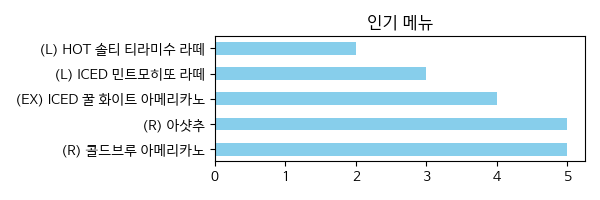
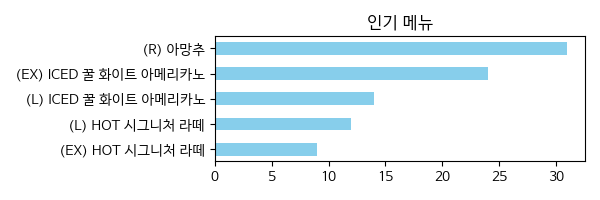
수정

diff --git a/kiosk/manager_function.py b/kiosk/manager_function.py
@@ -143,6 +143,7 @@ class managerFunction(QWidget):
             ss += int(s)
         self.labelSum.setText(f'총 매출: {ss:,}원')
 
+        
         self.tableView_1.setModel(model)
 
 
@@ -264,6 +265,7 @@ class managerFunction(QWidget):
             model2.appendRow(items)
 
         self.tableView_2.setModel(model2)
+        self.tableView_2.resizeColumnsToContents()
 
     # 인기 항목 표시
     def load_popular_manu(self):

diff --git a/kiosk/chart_ex.py b/kiosk/chart_ex.py
@@ -15,6 +15,8 @@ def img_chart(p_list):
     selected_data = p_list[:5]
 
     labels, values = zip(*selected_data)
+    labels = labels[::-1]
+    values = values[::-1]
 
     plt.figure(figsize=(6,2))
     
